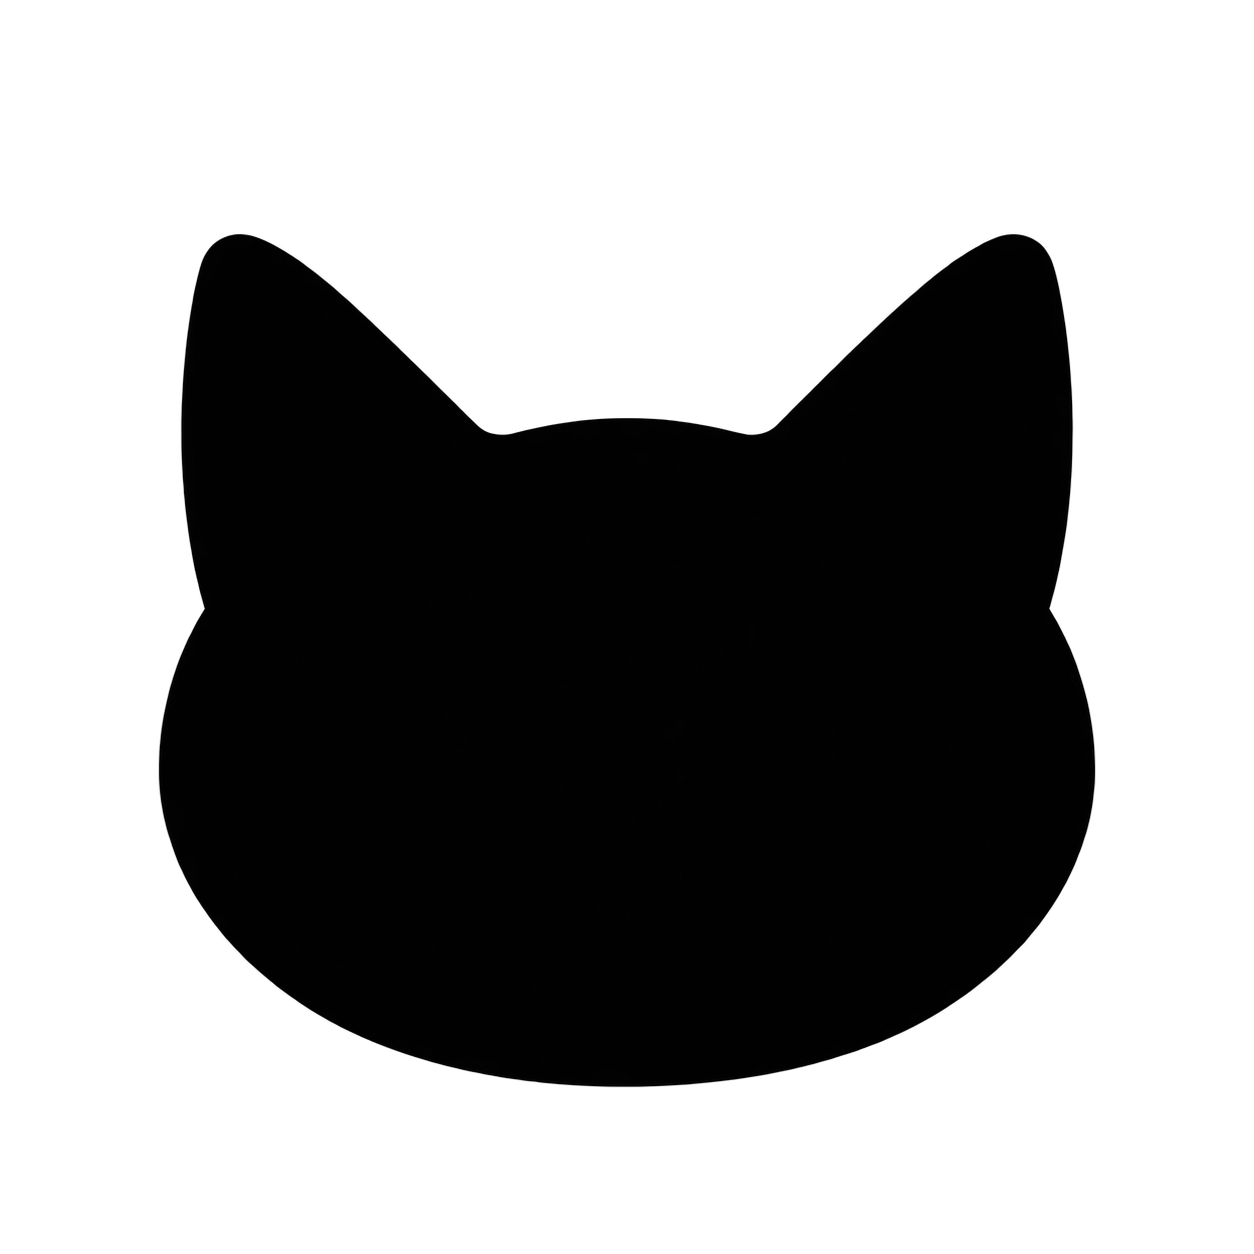
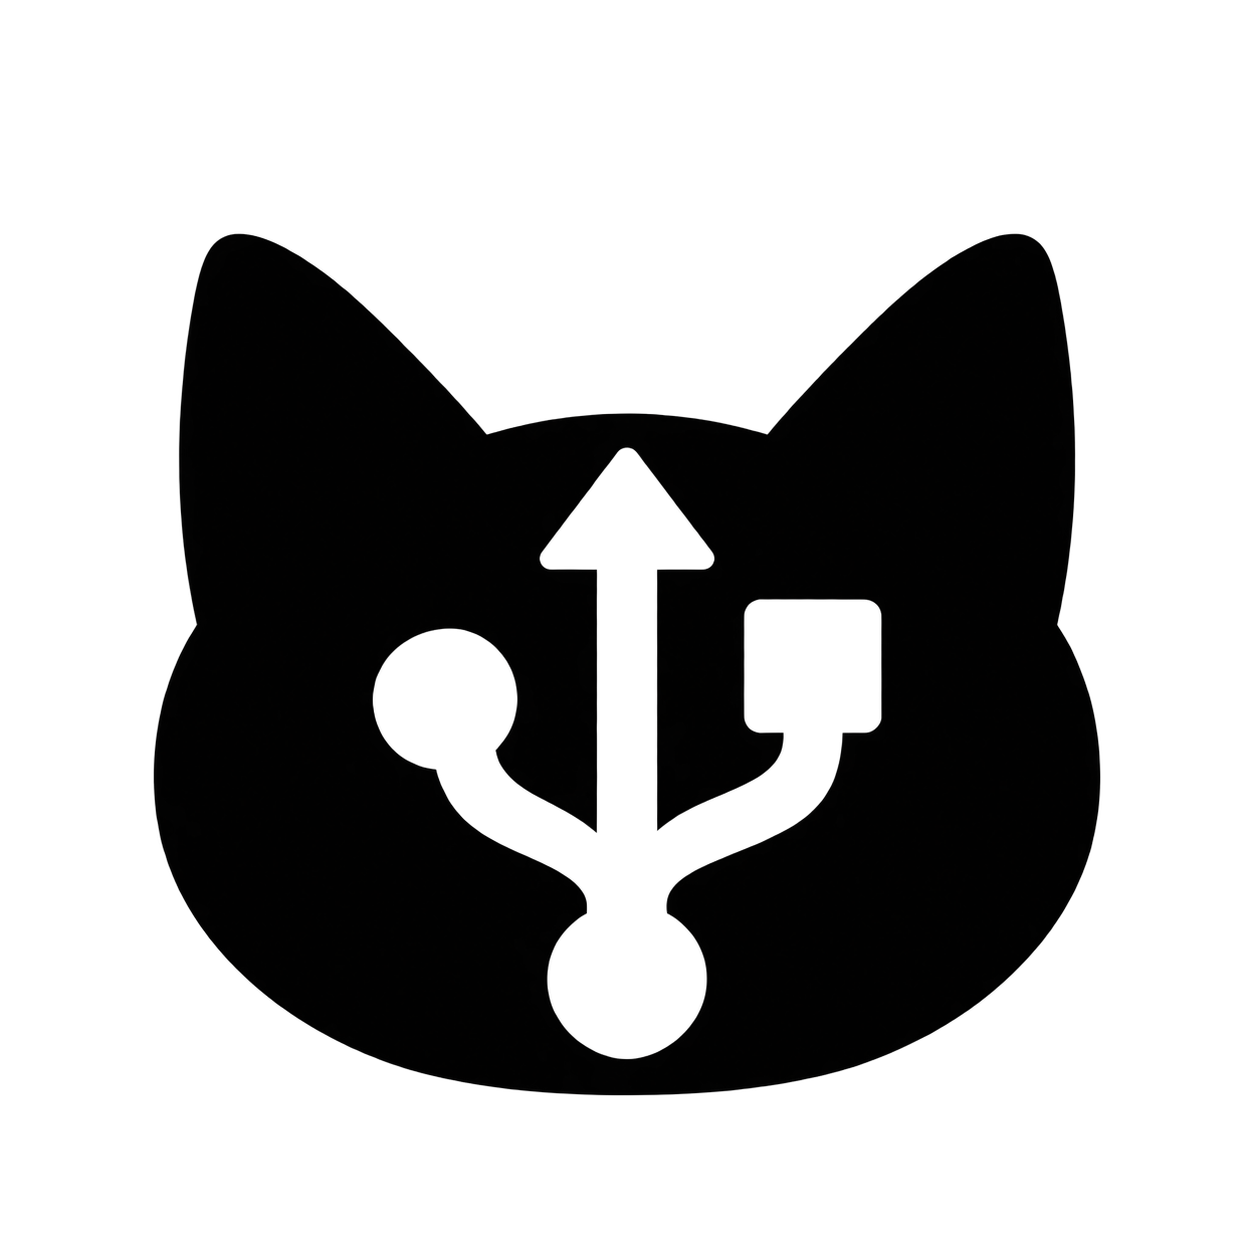
design: add USB cutout to cat menu-bar mark

diff --git a/docs/branding.md b/docs/branding.md
@@ -25,11 +25,12 @@ from the app's bundled icon; it is not a separate illustration.
 
 ## Menu bar mark
 
-The menu bar uses a solid, front-facing cat-head silhouette with two ears and
-rounded cheeks. Alex found the initial nose-and-plug miniature too hard to read;
-at 22 points, omit the plug, face details, and motion marks. The transparent
-template image lets macOS tint it for light and dark appearances. Keep the full
-Nose Boop illustration for app icons and larger surfaces.
+The menu bar uses a front-facing cat-head silhouette with a bold USB trident
+cut out of its center. Alex requested the USB symbol to make the purpose clear
+at a glance after the original nose-and-plug miniature proved hard to read.
+At 22 points, omit face details and motion marks. Both the outside and the
+trident are transparent, so macOS can tint the template for light and dark
+appearances. Keep the full Nose Boop illustration for app icons and larger surfaces.
 
 - Canonical artwork: [nose-boop-menu-source.png](../Design/nose-boop-menu-source.png)
 - Bundled template sizes: [MenuBarIcon.imageset](../Sources/App/Assets.xcassets/MenuBarIcon.imageset)

diff --git a/docs/development-runbook.md b/docs/development-runbook.md
@@ -308,6 +308,7 @@ Logs: `/tmp/usb-boop-nose-boop-lint.log` and
 unchanged until the next version is deliberately published; keep the PR in draft.
 
 Alex found the first detailed menu-bar mark hard to recognize. It was simplified
-to a solid cat-head silhouette, previewed in both light and dark appearances.
+to a cat-head silhouette, then given a bold transparent USB-trident cutout at
+Alex's request. The final mark was previewed at 22 points in light/dark appearances.
 The full-color Nose Boop artwork is unchanged. Menu dismissal behavior is being
 clarified separately; no speculative menu lifecycle change was made.
